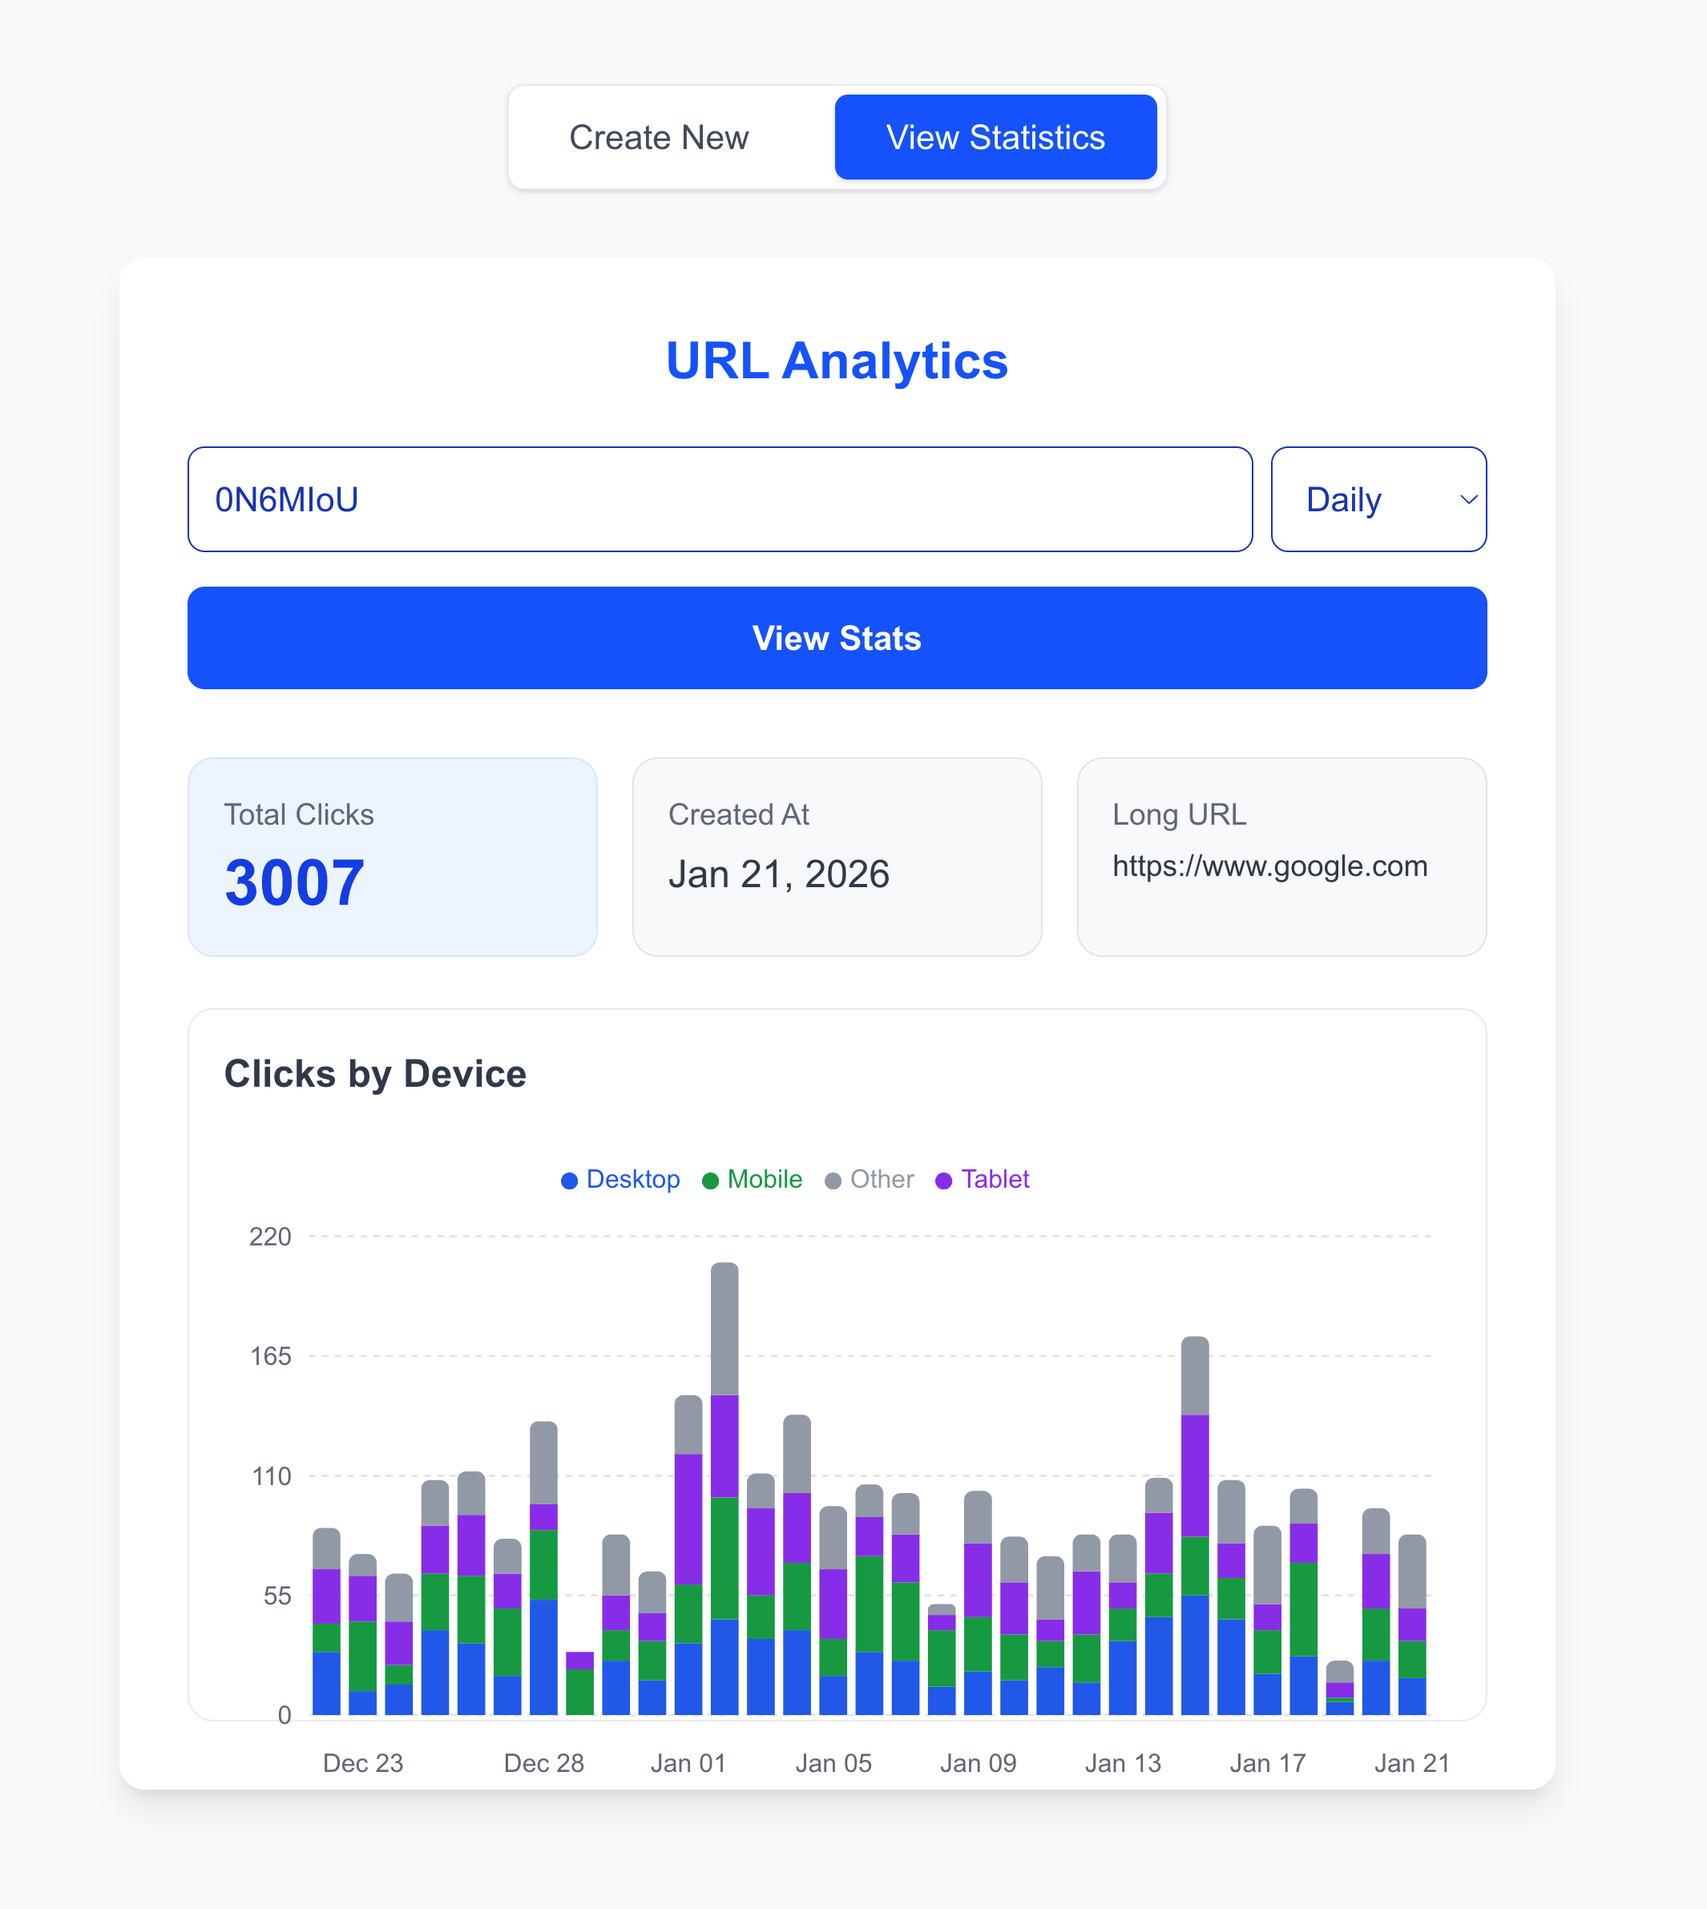
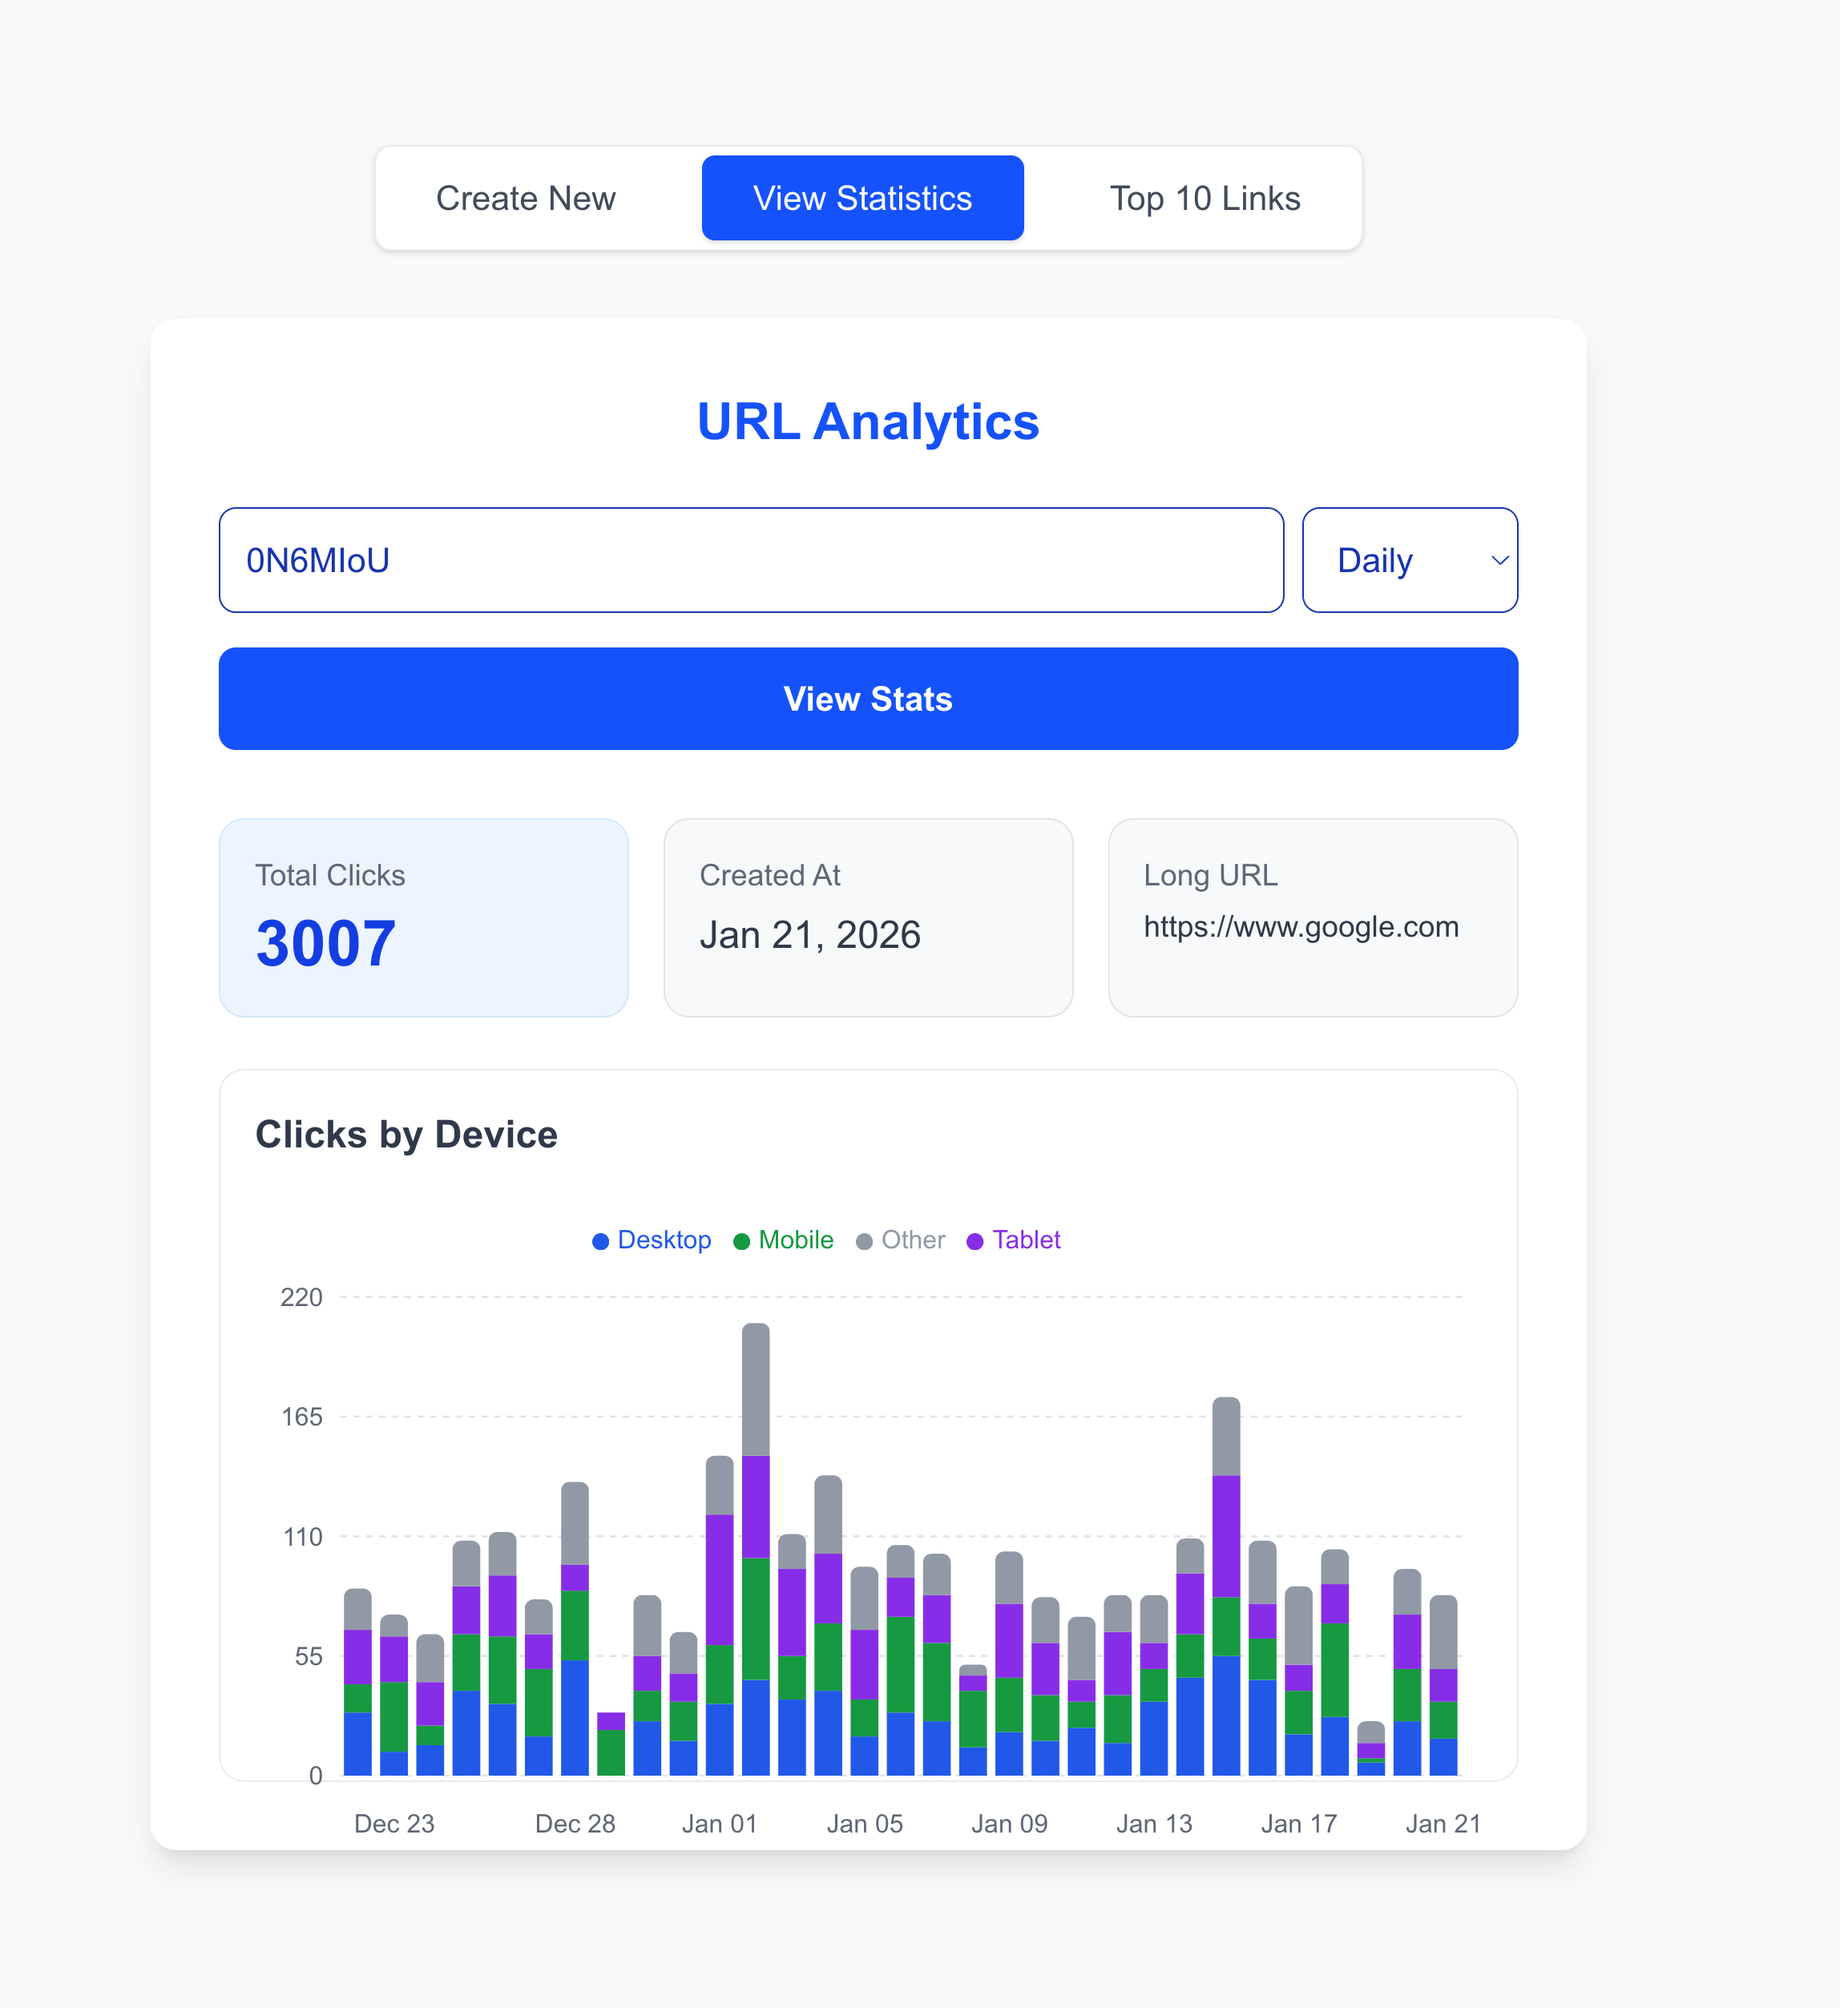
add: top 10 page screenshot

diff --git a/tiny-ui/app/page.tsx b/tiny-ui/app/page.tsx
@@ -7,6 +7,7 @@ import { QRCodeCanvas } from "qrcode.react";
 export default function Home() {
   const [activeTab, setActiveTab] = useState<"create" | "stats" | "top10">("create");
   const [url, setUrl] = useState("");
+  const [expiryDate, setExpiryDate] = useState("");
   const [shortenedData, setShortenedData] = useState<{ shortened_url: string } | null>(null);
   const [loading, setLoading] = useState(false);
   const [error, setError] = useState("");
@@ -18,12 +19,18 @@ export default function Home() {
     setShortenedData(null);
 
     try {
+      const payload: any = {
+        original_url: url,
+      };
+
+      if (expiryDate) {
+        payload.expiry_date = new Date(expiryDate).toISOString();
+      }
+
       const response = await fetch("http://localhost:8080/api/v1/urls", {
         method: "POST",
         headers: { "Content-Type": "application/json" },
-        body: JSON.stringify({
-          original_url: url,
-        }),
+        body: JSON.stringify(payload),
       });
 
       if (!response.ok) throw new Error("Failed to shorten URL");
@@ -74,14 +81,35 @@ export default function Home() {
           <h1 className="text-2xl font-bold text-center mb-6 text-blue-600">TinyURL Creator</h1>
 
           <form onSubmit={handleShorten} className="space-y-4">
-            <input
-              type="url"
-              placeholder="Paste your long URL here..."
-              required
-              className="w-full p-3 border rounded-lg focus:ring-2 focus:ring-blue-400 outline-none text-blue-800"
-              value={url}
-              onChange={(e) => setUrl(e.target.value)}
-            />
+            <div>
+              <label htmlFor="url-input" className="block text-sm font-medium text-gray-700 mb-1">
+                Long URL
+              </label>
+              <input
+                id="url-input"
+                type="url"
+                placeholder="Paste your long URL here..."
+                required
+                className="w-full p-3 border rounded-lg focus:ring-2 focus:ring-blue-400 outline-none text-blue-800"
+                value={url}
+                onChange={(e) => setUrl(e.target.value)}
+              />
+            </div>
+
+            <div>
+              <label htmlFor="expiry-input" className="block text-sm font-medium text-gray-700 mb-1">
+                Expiration (Optional)
+              </label>
+              <input
+                id="expiry-input"
+                type="datetime-local"
+                className="w-full p-3 border rounded-lg focus:ring-2 focus:ring-blue-400 outline-none text-blue-800"
+                value={expiryDate}
+                min={new Date().toISOString().slice(0, 16)}
+                onChange={(e) => setExpiryDate(e.target.value)}
+              />
+            </div>
+
             <button
               type="submit"
               disabled={loading}

diff --git a/README.md b/README.md
@@ -237,7 +237,7 @@ The project includes a modern React/Next.js frontend for easy interaction with t
    npm run dev
    ```
 4. Open [http://localhost:3000](http://localhost:3000) in your browser.
-   
+
    > **💡 Tip:** To see the analytics visualization with seeded data, enter one of these short codes in the search box:
    > - `0N6MIoU`
    > - `02V71pQ`
@@ -246,12 +246,17 @@ The project includes a modern React/Next.js frontend for easy interaction with t
 
 #### 📸 Screenshots
 
-| **Dashboard** | **Daily Stats** |
-|:---:|:---:|
-| ![Main Page](assets/mainpage.png) | ![Daily Stats](assets/dailystat.png) |
-| **Simple interface to shorten URLs** | **Track daily clicks trend** |
+|                    **Dashboard**                     |           **Daily Stats**            |
+|:----------------------------------------------------:|:------------------------------------:|
+|   ![Main Page](assets/mainpagewithexpiarydate.png)   | ![Daily Stats](assets/dailystat.png) |
+| **Simple interface to shorten URLs with Expiration** |     **Track daily clicks trend**     |
 
-| **Hourly Details** | **Device Distribution** |
-|:---:|:---:|
-| ![Hourly Stats](assets/hourlysatat.png) | ![Monthly Device Stats](assets/monthstats.png) |
-| **Granular hourly traffic view** | **Monthly breakdown by device type** |
+|           **Hourly Details**           |             **Device Distribution**             |
+|:--------------------------------------:|:-----------------------------------------------:|
+| ![Hourly Stats](assets/hourlystat.png) | ![Monthly Device Stats](assets/monthlystat.png) |
+|    **Granular hourly traffic view**    |      **Monthly breakdown by device type**       |
+
+|       **Top Performing Links**        | |
+|:-------------------------------------:|:-:|
+| ![Top 10 Links](assets/top10page.png) | |
+|      **View most popular URLs**       | |
